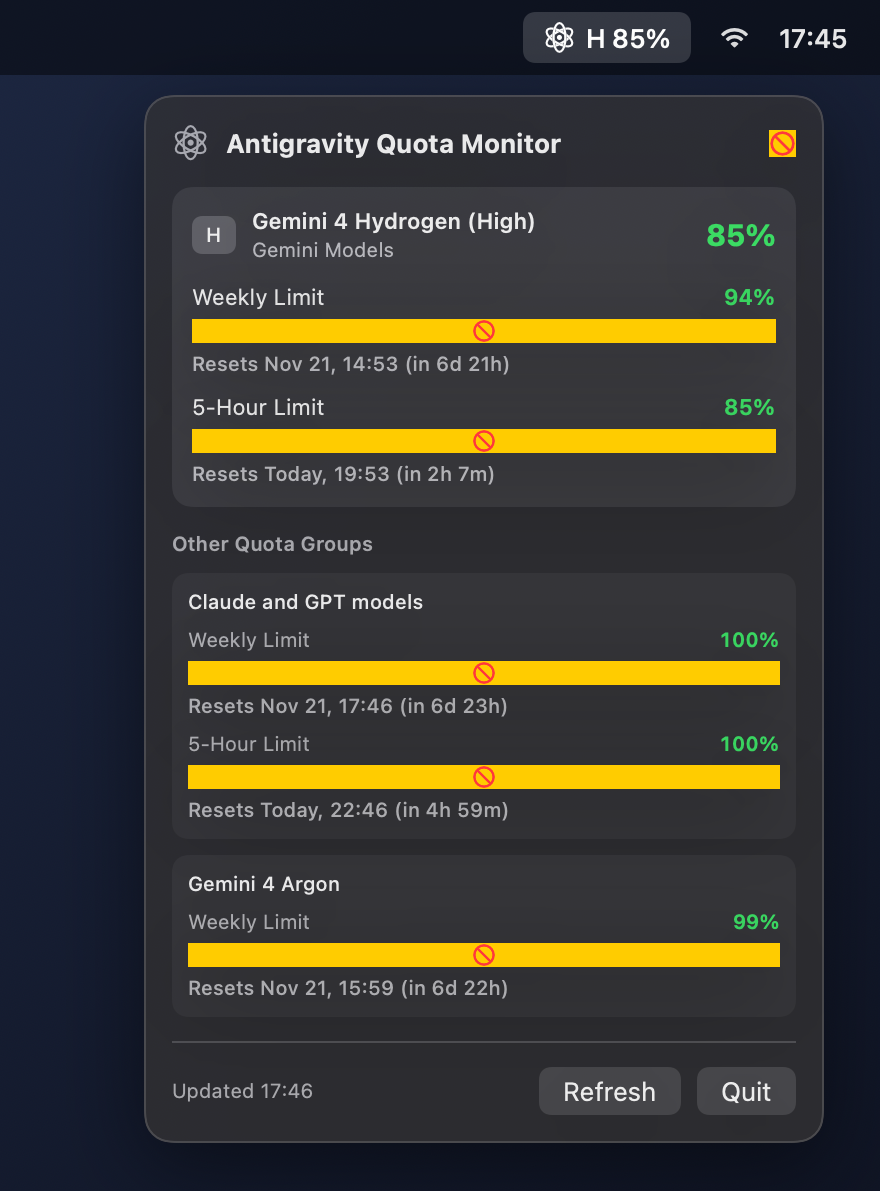
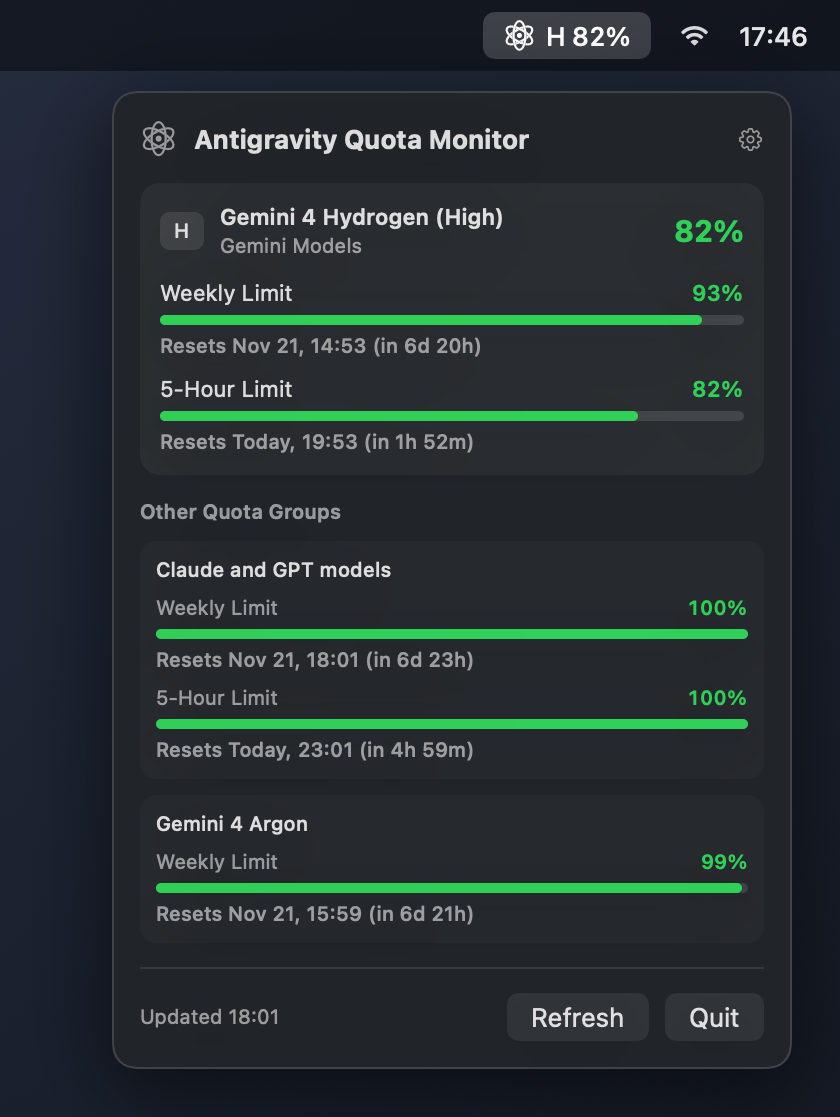
chore: fix spaced app bundle name, clean UI screenshots, and polish README

diff --git a/AntigravityQuotaMonitor/Views/QuotaBucketRowView.swift b/AntigravityQuotaMonitor/Views/QuotaBucketRowView.swift
@@ -16,13 +16,11 @@ struct QuotaBucketRowView: View {
 
                 Text("\(bucket.remainingPercent)%")
                     .font((isCompact ? Font.caption : Font.subheadline).monospacedDigit().weight(.semibold))
-                    .foregroundStyle(QuotaFormatting.tintColor(for: bucket.remainingPercent))
+                    .foregroundStyle(tintColor)
             }
 
-            ProgressView(value: min(max(bucket.remainingFraction, 0), 1))
-                .progressViewStyle(.linear)
-                .tint(QuotaFormatting.tintColor(for: bucket.remainingPercent))
-                .controlSize(.small)
+            ProgressView(value: clampedFraction)
+                .progressViewStyle(QuotaLinearProgressStyle(tint: tintColor))
 
             if let resetText = QuotaFormatting.formatResetTime(bucket.resetTime) {
                 Text(resetText)
@@ -31,6 +29,14 @@ struct QuotaBucketRowView: View {
                     .lineLimit(1)
             }
         }
+    }
+
+    private var clampedFraction: Double {
+        min(max(bucket.remainingFraction, 0), 1)
+    }
+
+    private var tintColor: Color {
+        QuotaFormatting.tintColor(for: bucket.remainingPercent)
     }
 
     private var displayTitle: String {
@@ -42,5 +48,24 @@ struct QuotaBucketRowView: View {
         default:
             return bucket.name
         }
+    }
+}
+
+private struct QuotaLinearProgressStyle: ProgressViewStyle {
+    let tint: Color
+
+    func makeBody(configuration: Configuration) -> some View {
+        let fraction = min(max(configuration.fractionCompleted ?? 0, 0), 1)
+        GeometryReader { proxy in
+            ZStack(alignment: .leading) {
+                Capsule()
+                    .fill(Color.primary.opacity(0.14))
+
+                Capsule()
+                    .fill(tint)
+                    .frame(width: max(fraction > 0 ? 5 : 0, proxy.size.width * fraction))
+            }
+        }
+        .frame(height: 5)
     }
 }

diff --git a/AntigravityQuotaMonitor/Views/MenuBarContentView.swift b/AntigravityQuotaMonitor/Views/MenuBarContentView.swift
@@ -78,8 +78,10 @@ struct MenuBarContentView: View {
             } label: {
                 Image(systemName: "gearshape")
                     .font(.subheadline)
+                    .foregroundStyle(.secondary)
+                    .contentShape(Rectangle())
             }
-            .buttonStyle(.borderless)
+            .buttonStyle(.plain)
             .help("Settings")
             .accessibilityLabel("Settings")
         }

diff --git a/README.md b/README.md
@@ -2,33 +2,29 @@
 
 A lightweight native macOS menu bar utility written in Swift and SwiftUI that monitors the remaining usage quota for the Google Antigravity AI model currently selected in Xcode.
 
-> **Status:** All milestones (0–7) are complete (`v1.0`). Built with native SwiftUI, Apple Accessibility APIs, and the official Antigravity CLI (`agy`).
-
 ## Overview
 
-Antigravity Quota Monitor lives unobtrusively in the macOS menu bar (`LSUIElement`), detects which Antigravity AI model is selected in Xcode's built-in assistant, queries real quota data through the official Antigravity CLI (`agy`), and surfaces the most restrictive remaining quota percentage at a glance (for example, `H 90%` or `A 99%`).
+Antigravity Quota Monitor lives unobtrusively in the macOS menu bar (`LSUIElement`), detects which Antigravity AI model is selected in Xcode's built-in coding assistant, queries usage data through the official Antigravity CLI (`agy`), and displays the most restrictive remaining quota percentage at a glance (for example, `H 86%` or `A 99%`).
 
 ## Features
 
-- Native macOS SwiftUI `MenuBarExtra` menu bar item displaying the orbital icon (`atom`) alongside the active model's abbreviation and lowest remaining percentage (e.g., `H 90%`, `A 99%`)
-- Menu bar agent configuration (`LSUIElement = YES`) with no Dock icon or standalone window
-- Expanded SwiftUI popover showing:
+- **At-a-Glance Menu Bar Indicator:** Displays the orbital icon (`atom`) alongside the active model's abbreviation and lowest remaining quota percentage (e.g., `H 86%`, `A 99%`) with no Dock icon or standalone window.
+- **Detailed Quota Popover:**
   - Active Xcode model label, matched quota group, and color-coded limiting percentage
   - 5-hour and weekly quota progress bars with local-timezone reset timestamps and relative countdowns
-  - Other available quota groups (`Claude and GPT models`, `Gemini 4 Argon`, etc.)
-  - Explicit states for missing Accessibility permission (with prompt button), Xcode not running, unmatched models, stale snapshots, and CLI errors
+  - Secondary view of all other available quota groups (such as `Claude and GPT models` and `Gemini 4 Argon`)
+  - Clear status messages for missing Accessibility permission, inactive Xcode sessions, unmatched models, stale snapshots, and CLI errors
   - Last updated timestamp, manual `Refresh` (`Cmd + R`), inline `Settings`, and `Quit` (`Cmd + Q`)
-- Background polling & lightweight active-model tracking:
-  - Configurable periodic quota refresh timer (2, 3, 4, or 5 minutes; default 3 minutes)
-  - Periodic lightweight Xcode model check (every 15 seconds) plus immediate sync on popover open
-  - Stale threshold tracking and last-valid snapshot preservation on transient CLI errors
-  - In-flight CLI task coalescing so overlapping `agy` subprocesses never spawn
-- Native inline Settings (`SettingsView` + `PreferencesStore`):
-  - Refresh interval picker (2–5 min) persisted in `UserDefaults`
-  - Optional custom `agy` CLI executable path persisted in `UserDefaults`
-  - Optional Launch at Login toggle using Apple's `ServiceManagement` (`SMAppService.mainApp`)
+- **Smart Background Refresh:**
+  - Configurable periodic quota polling (2, 3, 4, or 5 minutes; default 3 minutes)
+  - Lightweight active Xcode model tracking every 15 seconds plus immediate sync when opening the popover
+  - Preserves the last valid snapshot with a `Stale` indicator if a temporary CLI refresh fails
+  - Coalesces concurrent refresh requests so duplicate `agy` subprocesses never spawn
+- **Native Inline Settings:**
+  - Refresh interval selector (2–5 min) saved in `UserDefaults`
+  - Optional custom `agy` CLI executable path override
+  - Optional **Launch at Login** toggle via Apple's `ServiceManagement` (`SMAppService.mainApp`)
   - Live Accessibility permission status indicator
-- Tested modular architecture (`35` unit tests across `9` Swift Testing suites + UI launch/relaunch verification)
 
 ## Screenshots
 
@@ -38,71 +34,73 @@ Antigravity Quota Monitor lives unobtrusively in the macOS menu bar (`LSUIElemen
 
 ## System Requirements
 
-- macOS 15.0 or later (verified on macOS 26.7.2, Apple Silicon)
-- Xcode 16+ / Xcode 27.2+ (for building from source)
-- macOS Accessibility permission granted to `AntigravityQuotaMonitor` (required for active model detection)
-- Antigravity CLI (`agy`) installed locally and authenticated (verified on `1.5.9`)
+- macOS 15.0 (Sequoia) or later
+- [Antigravity CLI (`agy`)](https://antigravity.google) installed locally and authenticated
+- macOS Accessibility permission granted to **Antigravity Quota Monitor** (required for automatic Xcode model detection)
+- Xcode 16+ (only required if building from source)
 
-## Installation
+## Download & Installation
 
-### Option 1: Build and Run from Xcode
+### Option 1: Download Prebuilt App (Recommended)
+
+1. Download the latest `Antigravity-Quota-Monitor-macOS.zip` archive from the [GitHub Releases](https://github.com/GorkemSay/antigravity-quota-monitor/releases/latest) page.
+2. Double-click the `.zip` file to extract **Antigravity Quota Monitor.app**.
+3. Drag **Antigravity Quota Monitor.app** into your **Applications** (`/Applications`) folder.
+4. Launch **Antigravity Quota Monitor** from Applications or Spotlight.
+   > **Note on Gatekeeper:** Because the prebuilt archive is not notarized with an Apple Developer ID certificate, macOS may show an unverified developer prompt on first launch. Open **System Settings > Privacy & Security** and click **Open Anyway**, or run `xattr -dr com.apple.quarantine "/Applications/Antigravity Quota Monitor.app"` in Terminal before opening.
+5. Click the **atom** icon in the menu bar and select **Grant Accessibility Access** (or enable **Antigravity Quota Monitor** under **System Settings > Privacy & Security > Accessibility**).
+
+### Option 2: Build and Install from Source
 
 1. Clone the repository:
    ```bash
    git clone https://github.com/GorkemSay/antigravity-quota-monitor.git
    cd antigravity-quota-monitor
    ```
-2. Open `AntigravityQuotaMonitor.xcodeproj` in Xcode.
-3. Select the **AntigravityQuotaMonitor** scheme and **My Mac** run destination.
-4. Build and run (`Cmd + R`).
-5. When prompted (or via **System Settings > Privacy & Security > Accessibility**), grant Accessibility permission to **AntigravityQuotaMonitor**.
+2. Build the Release application bundle and install it to `/Applications`:
+   ```bash
+   xcodebuild build \
+     -project "AntigravityQuotaMonitor.xcodeproj" \
+     -scheme "AntigravityQuotaMonitor" \
+     -configuration Release \
+     -destination "platform=macOS" \
+     -derivedDataPath build/ReleaseDerivedData
 
-### Option 2: Local Release Build (`xcodebuild`)
-
-```bash
-xcodebuild build \
-  -project "AntigravityQuotaMonitor.xcodeproj" \
-  -scheme "AntigravityQuotaMonitor" \
-  -configuration Release \
-  -destination "platform=macOS" \
-  -derivedDataPath build/ReleaseDerivedData
-```
-
-The signed application bundle is created at:
-
-```text
-build/ReleaseDerivedData/Build/Products/Release/AntigravityQuotaMonitor.app
-```
-
-You can copy `AntigravityQuotaMonitor.app` to `/Applications` and launch it directly.
+   rm -rf "/Applications/Antigravity Quota Monitor.app"
+   cp -R "build/ReleaseDerivedData/Build/Products/Release/Antigravity Quota Monitor.app" /Applications/
+   rm -rf build
+   open "/Applications/Antigravity Quota Monitor.app"
+   ```
+   Alternatively, open `AntigravityQuotaMonitor.xcodeproj` in Xcode, select the **AntigravityQuotaMonitor** scheme, and press `Cmd + R`.
+3. Grant Accessibility permission to **Antigravity Quota Monitor** when prompted.
 
 ## Permissions and Privacy
 
-- **Accessibility Permission:** Required strictly to inspect the selected model label in Xcode's model picker control (`AXMenuButton`). The application does not collect source code, conversation history, or unrelated application data.
-- **No App Sandbox (Local Execution):** App Sandbox is disabled on the macOS target so the app can query Accessibility attributes from Xcode and invoke the user-installed `agy` CLI executable via `Process`.
-- **Credentials & Logging:** The application does not read, store, or extract OAuth tokens or authentication credentials, makes no direct network calls, and does not log raw CLI output by default.
+- **Accessibility Permission:** Used strictly to inspect the selected model label in Xcode's model picker control (`AXMenuButton`). The application does not read source code, conversation history, or unrelated application data.
+- **Local Execution (No App Sandbox):** App Sandbox is disabled on the macOS target so the app can query Accessibility attributes from Xcode and run the locally installed `agy` CLI executable via `Process`.
+- **Credentials & Logging:** The application does not read, store, or extract OAuth tokens or authentication credentials, makes no direct network calls, and does not log raw CLI output.
 
 ## Antigravity CLI Requirements
 
-The application invokes the locally installed Antigravity CLI (`agy`, verified on `1.5.9` at `~/.local/bin/agy`) using:
+Antigravity Quota Monitor queries usage data through your locally installed `agy` CLI using:
 
 ```bash
 agy -p "/usage" --output-format json
 ```
 
-Because macOS GUI applications launched from Finder or Xcode do not inherit interactive terminal `PATH` variables, `AntigravityQuotaProvider` checks `$HOME/.local/bin/agy`, `/opt/homebrew/bin/agy`, `/usr/local/bin/agy`, `/usr/bin/agy`, `PATH` entries, and any custom path configured in Settings.
+Because macOS GUI applications launched from Finder do not inherit interactive shell `PATH` variables, the app automatically searches `$HOME/.local/bin/agy`, `/opt/homebrew/bin/agy`, `/usr/local/bin/agy`, `/usr/bin/agy`, and `PATH`. If your `agy` binary lives elsewhere, you can specify a custom path inside **Settings**.
 
-## How It Works (Architecture Overview)
+## How It Works
 
-1. **Xcode Model Detection (`XcodeModelDetector`):** Locates running Xcode processes via `NSRunningApplication`, inspects focused, main, and secondary Xcode windows using Apple's Accessibility APIs (`AXUIElement`), and parses the model picker's accessibility label into `DetectedModel`.
-2. **Quota Retrieval (`AntigravityQuotaProvider`):** Executes `agy -p "/usage" --output-format json` in a non-blocking subprocess with timeout, file-handle cleanup, and overlap protection, extracts balanced JSON safely, and decodes `QuotaSnapshot`, `QuotaGroup`, and `QuotaBucket` models.
-3. **Matching, Polling & Presentation (`ModelQuotaMapper`, `QuotaManager`, `PreferencesStore`):** Maps the active model to its quota group, refreshes quotas periodically in the background, preserves stale snapshots clearly if a refresh fails, and presents everything in SwiftUI `MenuBarExtra`.
+1. **Xcode Model Detection (`XcodeModelDetector`):** Locates running Xcode instances via `NSRunningApplication`, traverses Xcode's window Accessibility hierarchy (`AXUIElement`), and parses the active model selector label into a structured `DetectedModel`.
+2. **Quota Retrieval (`AntigravityQuotaProvider`):** Runs `agy -p "/usage" --output-format json` in an isolated subprocess with timeout, handle cleanup, and task coalescing, then parses the JSON response into `QuotaSnapshot`, `QuotaGroup`, and `QuotaBucket` models.
+3. **Matching & Presentation (`ModelQuotaMapper`, `QuotaManager`, `PreferencesStore`):** Matches the detected model to its quota group, manages background refresh intervals and stale-data handling, and renders the SwiftUI `MenuBarExtra` interface.
 
-## Supported Model Groups (Observed CLI Configuration)
+## Supported Model Groups
 
-Based on observed CLI output on macOS (subject to account configuration and future CLI updates):
+Based on Antigravity CLI usage output (subject to account configuration and future CLI updates):
 
-| Model | Quota Group | Observed Buckets |
+| Model | Quota Group | Quota Windows |
 |---|---|---|
 | Gemini 4 Hydrogen | Gemini Models | Weekly, 5-hour |
 | Gemini 3.8 Flash | Gemini Models | Weekly, 5-hour |
@@ -172,11 +170,9 @@ Our approach prioritizes:
 
 > *Note: Antigravity Quota Monitor is an independent utility and is not endorsed by, certified by, or affiliated with Google or Apple.*
 
-## Development Instructions
+## Development & Testing
 
-### Running Tests
-
-Using Xcode, select the **AntigravityQuotaMonitor** scheme and press `Cmd + U`, or run via `xcodebuild`:
+To run the full unit and UI test suite from Xcode, open `AntigravityQuotaMonitor.xcodeproj` and press `Cmd + U`, or run via terminal:
 
 ```bash
 xcodebuild test \
@@ -187,20 +183,9 @@ xcodebuild test \
 
 ## Known Limitations
 
-- Live model detection requires macOS Accessibility permission to be granted to the running application bundle.
-- Launch at Login (`SMAppService.mainApp`) requires a properly built application bundle location and signing to register with macOS Login Items.
+- Active model detection requires macOS Accessibility permission to be granted to the running application bundle.
+- **Launch at Login** (`SMAppService.mainApp`) requires the app to reside in a standard location such as `/Applications`.
 - Depends on the Antigravity CLI `agy -p "/usage" --output-format json` contract and Xcode's Accessibility tree labels remaining compatible across future updates.
-
-## Roadmap
-
-- [x] **Milestone 0:** Environment and feasibility review
-- [x] **Milestone 1:** macOS Xcode target, menu bar shell, and GitHub repository setup
-- [x] **Milestone 2:** `XcodeModelDetector` via Accessibility APIs
-- [x] **Milestone 3:** `AntigravityQuotaProvider` via `agy` CLI
-- [x] **Milestone 4:** Model-to-quota mapping & `QuotaManager`
-- [x] **Milestone 5:** Full menu bar indicator and expanded popover UI
-- [x] **Milestone 6:** Background polling, stale-data states, and Settings
-- [x] **Milestone 7:** Comprehensive testing, polish, and local release build
 
 ## License
 

diff --git a/PROJECT_PROGRESS.md b/PROJECT_PROGRESS.md
@@ -13,7 +13,7 @@
 
 ## Current Milestone
 
-**Milestone 7 — Testing, Polish, and Release Preparation** (Completed — `v1.0` Ready)
+**Milestone 7 — Testing, Polish, and Release Preparation** (Completed — `v1.0.0` Released)
 
 ---
 
@@ -49,25 +49,28 @@
 ### Milestone 7 — Testing, Polish, and Release Preparation
 - Hardened `SystemCLIProcessRunner` to explicitly close stdout/stderr `FileHandle` descriptors after EOF and on launch failure to eliminate file-descriptor leakage.
 - Updated `AntigravityQuotaMonitorUITests/AntigravityQuotaMonitorUITests.swift` with `testMenuBarAppLaunchesAndRelaunchesCleanly()` verifying agent launch, termination, and clean relaunch.
-- Generated full macOS `AppIcon.appiconset` (`16x16` through `512x512@2x`) matching the menu bar `"atom"` emblem and installed the Release `.app` bundle to `/Applications/AntigravityQuotaMonitor.app`.
-- Rendered live SwiftUI screenshots (`docs/screenshots/menubar-popover.png` and `docs/screenshots/settings-popover.png`) and embedded them in `README.md`.
+- Generated full macOS `AppIcon.appiconset` (`16x16` through `512x512@2x`) matching the menu bar `"atom"` emblem.
+- Updated `PRODUCT_NAME` to `"Antigravity Quota Monitor"` (while preserving `PRODUCT_MODULE_NAME = "AntigravityQuotaMonitor"`) so the bundle installs cleanly as `/Applications/Antigravity Quota Monitor.app`.
+- Updated `QuotaBucketRowView` with a pure SwiftUI `QuotaLinearProgressStyle` and `MenuBarContentView` gear button with `.buttonStyle(.plain)`, and re-rendered clean Retina screenshots (`docs/screenshots/menubar-popover.png` and `docs/screenshots/settings-popover.png`).
+- Polished `README.md` for end users (removed internal roadmap, added clear Download & Build installation instructions).
 - Audited all source files under `AntigravityQuotaMonitor/` (`print`, `NSLog`, `os_log`, `Logger`, `SecItem`, `URLSession`, HTTP/HTTPS) — zero matches (`CLEAN_PRIVACY_AUDIT`).
-- Verified full unit + UI test suite and `Release` build (`AntigravityQuotaMonitor.app`, `codesign --verify --deep --strict`, `LSUIElement = 1`, `CFBundleDisplayName = "Antigravity Quota Monitor"`).
+- Verified full unit + UI test suite and `Release` build (`Antigravity Quota Monitor.app`, `codesign --verify --deep --strict`, `LSUIElement = 1`, `CFBundleDisplayName = "Antigravity Quota Monitor"`), and published GitHub Release `v1.0.0`.
 
 ---
 
 ## Technical Decisions
 
-1. **Explicit Pipe Cleanup:** Closing `stdoutPipe` and `stderrPipe` read handles immediately after `readDataToEndOfFile()` (and on launch errors) guarantees zero descriptor leaks across long-running menu bar polling sessions.
-2. **Privacy & Zero Raw Logging:** No conversation text, OAuth tokens, or raw CLI outputs are logged, cached on disk, or sent to custom endpoints.
-3. **Release Build Verification:** Validated `Release` configuration compilation (`wholemodule` Swift optimization), `AppIcon.icns` asset catalog compilation, bundle `Info.plist` agent configuration (`LSUIElement = 1`), and Apple Development code signature verification.
+1. **Product Name vs. Module Name Separation:** Setting `PRODUCT_NAME = "Antigravity Quota Monitor"` and `PRODUCT_MODULE_NAME = "AntigravityQuotaMonitor"` produces a user-friendly spaced `.app` bundle name in `/Applications` while keeping Swift module imports intact.
+2. **Explicit Pipe Cleanup:** Closing `stdoutPipe` and `stderrPipe` read handles immediately after `readDataToEndOfFile()` (and on launch errors) guarantees zero descriptor leaks across long-running menu bar polling sessions.
+3. **Privacy & Zero Raw Logging:** No conversation text, OAuth tokens, or raw CLI outputs are logged, cached on disk, or sent to custom endpoints.
+4. **Release Build Verification:** Validated `Release` configuration compilation (`wholemodule` Swift optimization), `AppIcon.icns` asset catalog compilation, bundle `Info.plist` agent configuration (`LSUIElement = 1`), and Apple Development code signature verification.
 
 ---
 
 ## Testing Results
 
 - **Unit Tests (`AntigravityQuotaMonitorTests`):** `35 passed, 0 failed` (9 Swift Testing suites), zero compiler warnings.
-- **UI Tests (`AntigravityQuotaMonitorUITests`):** `1 passed, 0 failed` (`testMenuBarAppLaunchesAndRelaunchesCleanly`, 3.12s).
+- **UI Tests (`AntigravityQuotaMonitorUITests`):** `1 passed, 0 failed` (`testMenuBarAppLaunchesAndRelaunchesCleanly`, 3.08s).
 - **Release Build (`xcodebuild build -configuration Release`):** Succeeded; `codesign --verify --deep --strict` passed (`CODESIGN_OK`).
 - **Privacy & Security Audit:** Zero raw logging, zero credential handling, zero direct network calls.
 
@@ -75,7 +78,7 @@
 
 ## Known Issues
 
-- None blocking v1.0. Runtime behavior depends on macOS Accessibility permissions and the local `agy` CLI remaining compatible with `-p "/usage" --output-format json`.
+- None blocking v1.0.0. Runtime behavior depends on macOS Accessibility permissions and the local `agy` CLI remaining compatible with `-p "/usage" --output-format json`.
 
 ---
 
@@ -83,4 +86,4 @@
 
 - **Repository:** `https://github.com/GorkemSay/antigravity-quota-monitor`
 - **Branch:** `main`
-- **Latest Commit:** Updated with `AppIcon` assets and README screenshots.
+- **Release:** `v1.0.0` (`Antigravity-Quota-Monitor-macOS.zip`)
